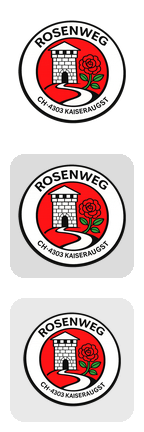
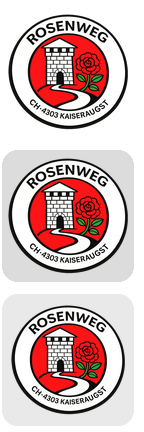
GPO Rosenweg-Look: Start-Knopf deckt den zentrierten Windows-11-Knopf ganz ab, Taskleiste zentriert, BGInfo pro Rechner und neutral beim Abmelden
- Open-Shell legt seinen Knopf unter Windows 11 nur ueber den Windows-Knopf
  (linke Kante des versteckten Fensters "Start") und blendet ihn nicht aus.
  Durch die durchsichtigen Raender des Wappens schaute das Windows-Symbol
  durch. startknopf.png neu: 48x48 je Zustand, Wappen (40 px) genau ueber dem
  Symbol der zentrierten Taskleiste (Mitte 22,5|24), auf win11-1 ausgemessen;
  StartButtonAlign=1 (unten buendig statt 1 px unter dem Rand)
- Taskleiste zentriert (TaskbarAl=1) statt links, wie Stefan es will
- bginfo.ps1: Bild pro Rechner (bginfo-<RECHNER>.png); -Abmelden setzt den
  Hintergrund auf das neutrale Stationsbild zurueck (zweites Abmeldeskript),
  damit das servergespeicherte Profil kein Bild mit fremden Rechnerdaten
  mitnimmt (WIN11-1 zeigte zuerst R9-PC1)

diff --git a/ad-dc/gpo-rosenweg-look-windows/startknopf-erzeugen.py b/ad-dc/gpo-rosenweg-look-windows/startknopf-erzeugen.py
@@ -6,11 +6,23 @@ hohen Zustaenden untereinander: normal, darueber (hover), gedrueckt
 (Src/StartMenu/StartMenuDLL/StartButton.cpp: Hoehe / 3). PNG mit Transparenz
 geht, weil Open-Shell das Bild ueber WIC laedt.
 
-Warum 144 px je Zustand: rosenweg-look.ps1 setzt StartButtonSize=48 (Breite bei
-100 %, so hoch wie die Windows-11-Taskleiste). Open-Shell rechnet das mit der
-Bildschirm-Skalierung hoch (ScaleForDpi) und verkleinert dafuer aus dem
-Quellbild - mit 144 px bleibt der Knopf bis 300 % scharf, statt aus 48 px
-aufgeblasen zu werden.
+Masse (26.11.2026 auf win11-1 bei 100 % ausgemessen, UI Automation, Fenster
+der Taskleiste, Bildschirmfoto): Open-Shell legt seinen Knopf unter Windows 11
+nur UEBER den Start-Knopf von Windows (an dessen linke Kante, das versteckte
+Fenster "Start"), versteckt ihn aber nicht. Wo unser Bild durchsichtig ist,
+schaut das Windows-Symbol durch - in der ersten Fassung als blauer Rand
+rechts neben dem Wappen.
+  - Taskleiste zentriert (so will es Stefan): Windows-Knopf 45x48, Symbol
+    (23x23) in dessen Mitte, also bei x = 22,5 vom linken Rand.
+  - Taskleiste links: Knopf 55x48, weil 10 px Rand links dazukommen - das
+    Symbol sitzt dann bei x = 32. Dafuer passt dieses Bild NICHT.
+Darum 48x48 je Zustand und das Wappen (rund, innen deckend) mit 40 px
+Durchmesser genau ueber dem Symbol, Mitte (22,5 | 24): die Ecken des Symbols
+liegen 16,3 px von der Mitte, also sicher innerhalb des Wappens (20 px).
+Gezeichnet in dreifacher Groesse (144x144 je Zustand): rosenweg-look.ps1 setzt
+StartButtonSize=48, Open-Shell rechnet das mit der Anzeige-Skalierung hoch
+und verkleinert dafuer aus dem Quellbild - so bleibt der Knopf bis 300 %
+scharf. Der Windows-Knopf waechst im selben Verhaeltnis mit.
 
 Aufruf (braucht Pillow):  python3 startknopf-erzeugen.py
 """
@@ -21,11 +33,14 @@ HIER = Path(__file__).resolve().parent
 QUELLE = HIER / 'bilder' / 'logo.png'
 ZIEL = HIER / 'bilder' / 'startknopf.png'
 
-PX = 144            # ein Zustand, quadratisch
-LOGO = 108          # Logo normal/hover: ~36 px bei 100 %, wie ein Taskleisten-Symbol
-LOGO_GEDRUECKT = 98  # gedrueckt etwas kleiner - so "gibt der Knopf nach" wie bei Windows 11
-RAND = 10           # Abstand der Hover-Flaeche zum Rand
-RADIUS = 14
+F = 3                       # Zeichenfaktor (siehe oben)
+BREITE, HOEHE = 48 * F, 48 * F  # ein Zustand
+MITTE = (68, 72)            # = (22,5 | 24) * 3, auf ganze Pixel
+LOGO = 40 * F               # Durchmesser normal/hover
+LOGO_GEDRUECKT = 38 * F     # gedrueckt etwas kleiner - "gibt nach" wie bei Windows 11;
+                            # deckt das Symbol noch (16,3 px < 19 px)
+FLAECHE = (2, 6, 133, 137)  # Hover-Flaeche um das Wappen, symmetrisch zur Mitte
+RADIUS = 5 * F
 # Grau mit wenig Deckkraft: sichtbar auf heller wie auf dunkler Taskleiste.
 # Die Taskleiste folgt dem hellen/dunklen Modus, eine feste Farbe saehe in
 # einem der beiden falsch aus.
@@ -40,19 +55,18 @@ def logo(groesse):
 
 
 def zustand(hintergrund, logogroesse):
-    bild = Image.new('RGBA', (PX, PX), (0, 0, 0, 0))
+    bild = Image.new('RGBA', (BREITE, HOEHE), (0, 0, 0, 0))
     if hintergrund:
-        ImageDraw.Draw(bild).rounded_rectangle(
-            (RAND, RAND, PX - 1 - RAND, PX - 1 - RAND), RADIUS, fill=hintergrund)
+        ImageDraw.Draw(bild).rounded_rectangle(FLAECHE, RADIUS, fill=hintergrund)
     l = logo(logogroesse)
-    bild.alpha_composite(l, ((PX - l.width) // 2, (PX - l.height) // 2))
+    bild.alpha_composite(l, (MITTE[0] - l.width // 2, MITTE[1] - l.height // 2))
     return bild
 
 
 def main():
-    streifen = Image.new('RGBA', (PX, 3 * PX), (0, 0, 0, 0))
+    streifen = Image.new('RGBA', (BREITE, 3 * HOEHE), (0, 0, 0, 0))
     for i, z in enumerate([zustand(None, LOGO), zustand(HOVER, LOGO), zustand(GEDRUECKT, LOGO_GEDRUECKT)]):
-        streifen.alpha_composite(z, (0, i * PX))
+        streifen.alpha_composite(z, (0, i * HOEHE))
     streifen.save(ZIEL, optimize=True)
     print(f'{ZIEL} ({streifen.width}x{streifen.height})')
 

diff --git a/ad-dc/gpo-rosenweg-look-windows/README.md b/ad-dc/gpo-rosenweg-look-windows/README.md
@@ -4,7 +4,7 @@ Windows-Rechner der Domäne sehen damit aus wie die Stationen:
 
 - dasselbe Hintergrund- und Sperrbild
 - Akzentfarbe Mint-Blau `#0C75DE`
-- Taskleiste links
+- Taskleiste zentriert wie bei Windows 11, mit dem Rosenweg-Wappen als Start-Knopf
 - Rosenweg als Hersteller mit Logo
 - das Logo als Standard-Kontobild
 - BGInfo: Rechner, Adressen, angemeldete Person, Windows-Stand und letztes Update oben rechts auf dem Hintergrund (`bginfo.ps1`, bei jeder Anmeldung)
@@ -34,7 +34,8 @@ Bilder oder Skript anpassen, dann auf dc1 im Ordner `./einrichten.sh` ausführen
 - **Richtlinie direkt in der sam.ldb statt über `samba-tool gpo create`:** Das Maschinenkonto des DC darf keine Richtlinien anlegen, und ein Admin-Passwort gehört nicht in ein Skript.
 - **`scripts.ini` mit `powershell.exe -ExecutionPolicy Bypass` statt `psscripts.ini`:** Ein Windows-Client steht ab Werk auf `Restricted` und würde das Skript sonst verweigern.
 - **Hintergrund und Sperrbild über PersonalizationCSP:** Das geht nur bei Enterprise/Education, und Benutzer können es nicht überschreiben. Auf den Stationen gehören diese Bilder ebenfalls der Station.
-- **Taskleiste links:** Das ist eine Benutzereinstellung. Das Skript lädt deshalb beim Start jedes Profil und die Vorlage für neue Profile kurz und setzt sie dort.
+- **Taskleiste zentriert:** Das ist eine Benutzereinstellung (`TaskbarAl=1`). Das Skript lädt deshalb beim Start jedes Profil und die Vorlage für neue Profile kurz und setzt sie dort. Bis zum 26.11.2026 stand sie links. Stefan will aber die Anordnung von Windows 11, mit dem Wappen an der Stelle des Windows-Knopfs.
+- **BGInfo pro Rechner:** Das Bild heisst `bginfo-<RECHNER>.png` und liegt in `%LOCALAPPDATA%`. Es wird bei jeder Anmeldung frisch erzeugt. Beim Abmelden setzt `bginfo.ps1 -Abmelden` den Hintergrund auf das neutrale Stationsbild zurück, als zweites Abmeldeskript. Windows legt nämlich eine Kopie des Hintergrunds im servergespeicherten Profil ab (`%APPDATA%\Microsoft\Windows\Themes`) und zeigt sie bei der nächsten Anmeldung zuerst an, auch auf einem anderen Rechner. So erschien auf WIN11-1 zuerst «R9-PC1, Windows 10».
 
 ## Programm-Whitelist (AppLocker)
 
@@ -122,12 +123,16 @@ Als die angemeldete Person selbst genügt `drucker.ps1 -Anlass Probe`.
 1. `einrichten.sh` lädt den Installer einmal von GitHub nach `programme/`, prüft die Prüfsumme und legt ihn ins sysvol. Der Installer kommt nicht ins Git, weil er ein 10 MB grosses Fremdprogramm ist. Hat dc1 kein Netz, die Datei von Hand nach `programme/` legen. Die Prüfsumme wird trotzdem geprüft.
 2. `rosenweg-look.ps1` prüft beim Start, ob der Rechner Windows 11 hat (Build 22000 oder höher) und ob Open-Shell 4.4.198 schon installiert ist. Fehlt es oder ist eine andere Version installiert, kopiert das Skript den Installer nach `C:\Windows\Temp`, prüft die Prüfsumme erneut und installiert still nur die Startmenü-Komponente: `/qn ADDLOCAL=StartMenu NOSTART=1 START_MENU_FOLDER=0`. Explorer-Zusatz, IE-Teil und Update-Dienst werden nicht installiert, Updates kommen von hier.
 3. Die Einstellungen setzt das Skript als Richtlinie unter `HKLM\SOFTWARE\Policies\OpenShell\StartMenu`, so wie die ADMX von Open-Shell sie schreibt: zu jedem Wert ein `<Name>_State`, 0 = fest, 2 = nur Vorgabe.
-   - **Fest:** `MenuStyle=2` (Windows 7), `MouseClick=1` und `WinKey=1` (klassisches Menü), `EnableStartButton=1`, `StartButtonType=2` (eigenes Bild), `StartButtonPath=C:\ProgramData\Rosenweg\startknopf.png`, `StartButtonSize=48`.
+   - **Fest:** `MenuStyle=2` (Windows 7), `MouseClick=1` und `WinKey=1` (klassisches Menü), `EnableStartButton=1`, `StartButtonType=2` (eigenes Bild), `StartButtonPath=C:\ProgramData\Rosenweg\startknopf.png`, `StartButtonSize=48`, `StartButtonAlign=1` (unten bündig).
    - **Nur Vorgabe:** Skin `Immersive`. Er folgt hell/dunkel und der Akzentfarbe.
    - **Aus:** die Update-Prüfung (`OpenShell\Update=0`).
 4. Wirksam wird Open-Shell bei der nächsten Anmeldung. Es startet über `HKLM\...\Run`, ein Explorer-Neustart ist nicht nötig.
 
-**Start-Knopf:** `bilder/startknopf.png`, 144×432 px, PNG mit Transparenz. Open-Shell erwartet die drei Zustände untereinander: normal, darüber und gedrückt (`StartButton.cpp`: Höhe ÷ 3). Je Zustand sind es 144 px, weil Open-Shell die 48 px Breite mit der Anzeigeskalierung hochrechnet. So bleibt der Knopf bis 300 % scharf. Für ein neues Logo: `python3 startknopf-erzeugen.py`, danach `./einrichten.sh`.
+**Start-Knopf:** `bilder/startknopf.png`, 144×432 px, PNG mit Transparenz.
+
+- **Format:** Open-Shell erwartet die drei Zustände untereinander: normal, darüber und gedrückt (`StartButton.cpp`: Höhe ÷ 3). Je Zustand sind es 144 px, weil Open-Shell die 48 px Breite mit der Anzeigeskalierung hochrechnet. So bleibt der Knopf bis 300 % scharf.
+- **Wichtig:** Unter Windows 11 legt Open-Shell seinen Knopf nur **über** den Windows-Knopf, an dessen linke Kante, und blendet diesen nicht aus. Wo das Bild durchsichtig ist, schaut das Windows-Symbol durch. Das Wappen sitzt deshalb genau über dem Symbol der **zentrierten** Taskleiste, die Masse stehen in `startknopf-erzeugen.py`.
+- **Taskleiste links:** Dafür passt dieses Bild nicht, weil das Symbol dort 10 px weiter rechts sitzt. Für ein neues Logo: `python3 startknopf-erzeugen.py`, danach `./einrichten.sh`.
 
 **Windows 10 auch:** In `rosenweg-look.ps1` `$OpenShellAbBuild = 10240` setzen.
 
